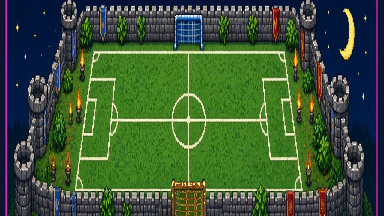
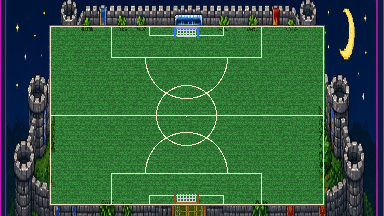
PIXEL: wire Pixel Forge rich N/S pitch + physics_clamp [52,28,321,202].

diff --git a/pixel.js b/pixel.js
@@ -9,7 +9,7 @@ const GUT = 1;
 const ROW_OF = { cybertruck: 0, model3: 1, cybercab: 2, semi: 3 };
 
 // Grass inset after magenta gutter crop (pitch_play.png)
-const CLAMP = { x0: 39, y0: 20, x1: 334, y1: 210 };
+const CLAMP = { x0: 52, y0: 28, x1: 321, y1: 202 };
 
 const BALL = {
   ball16: { y: 0, size: 16, frames: 4 },
@@ -209,3 +209,4 @@ function createPixelView() {
 }
 
 export { createPixelView };
+
